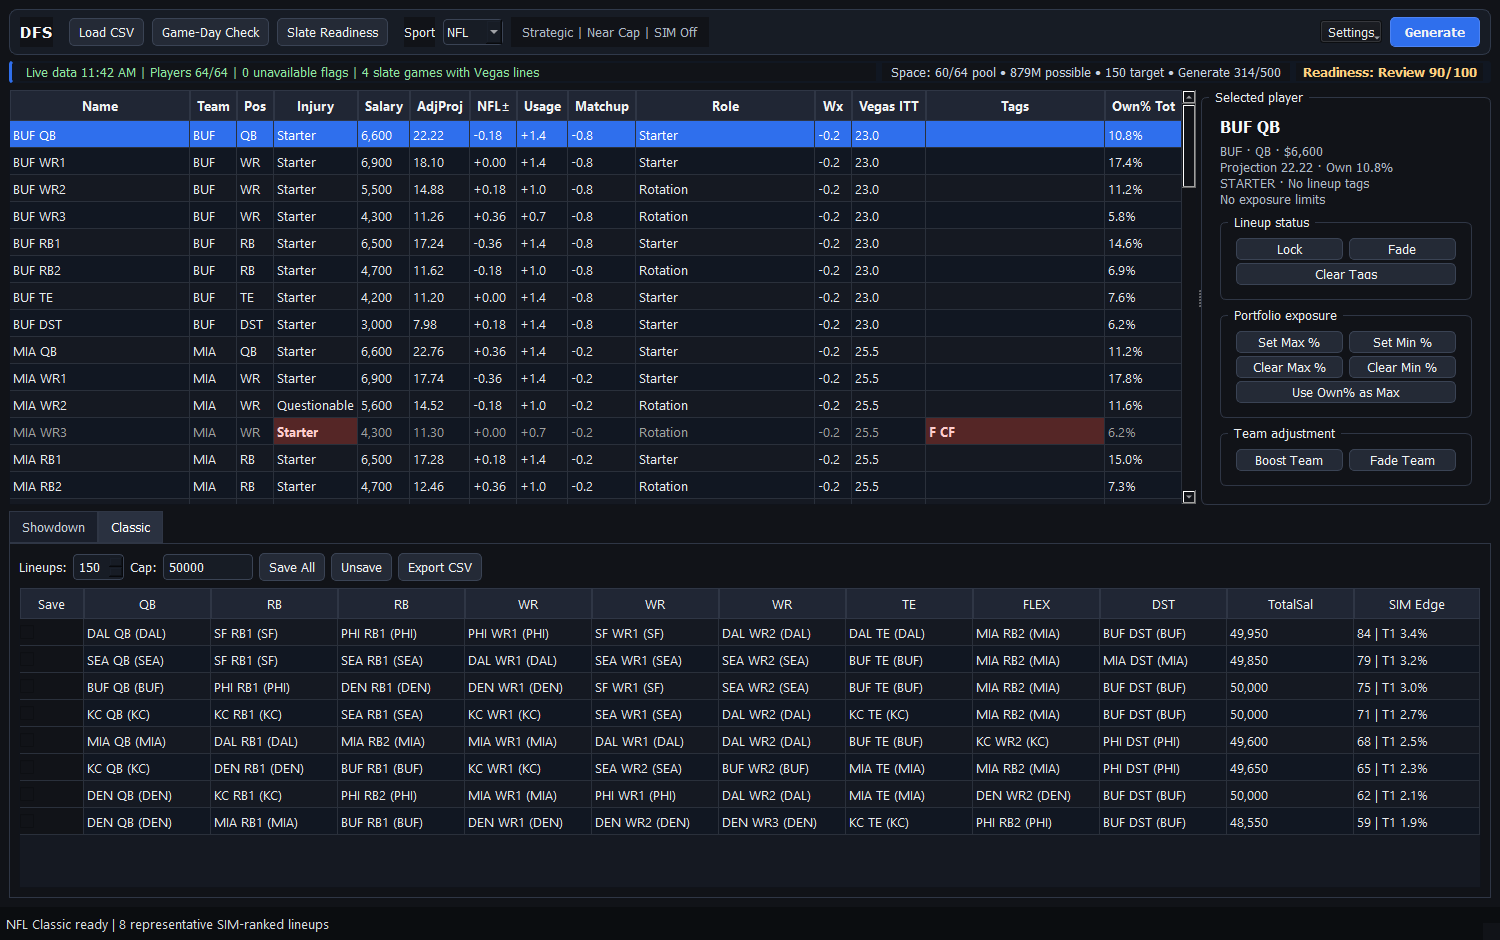
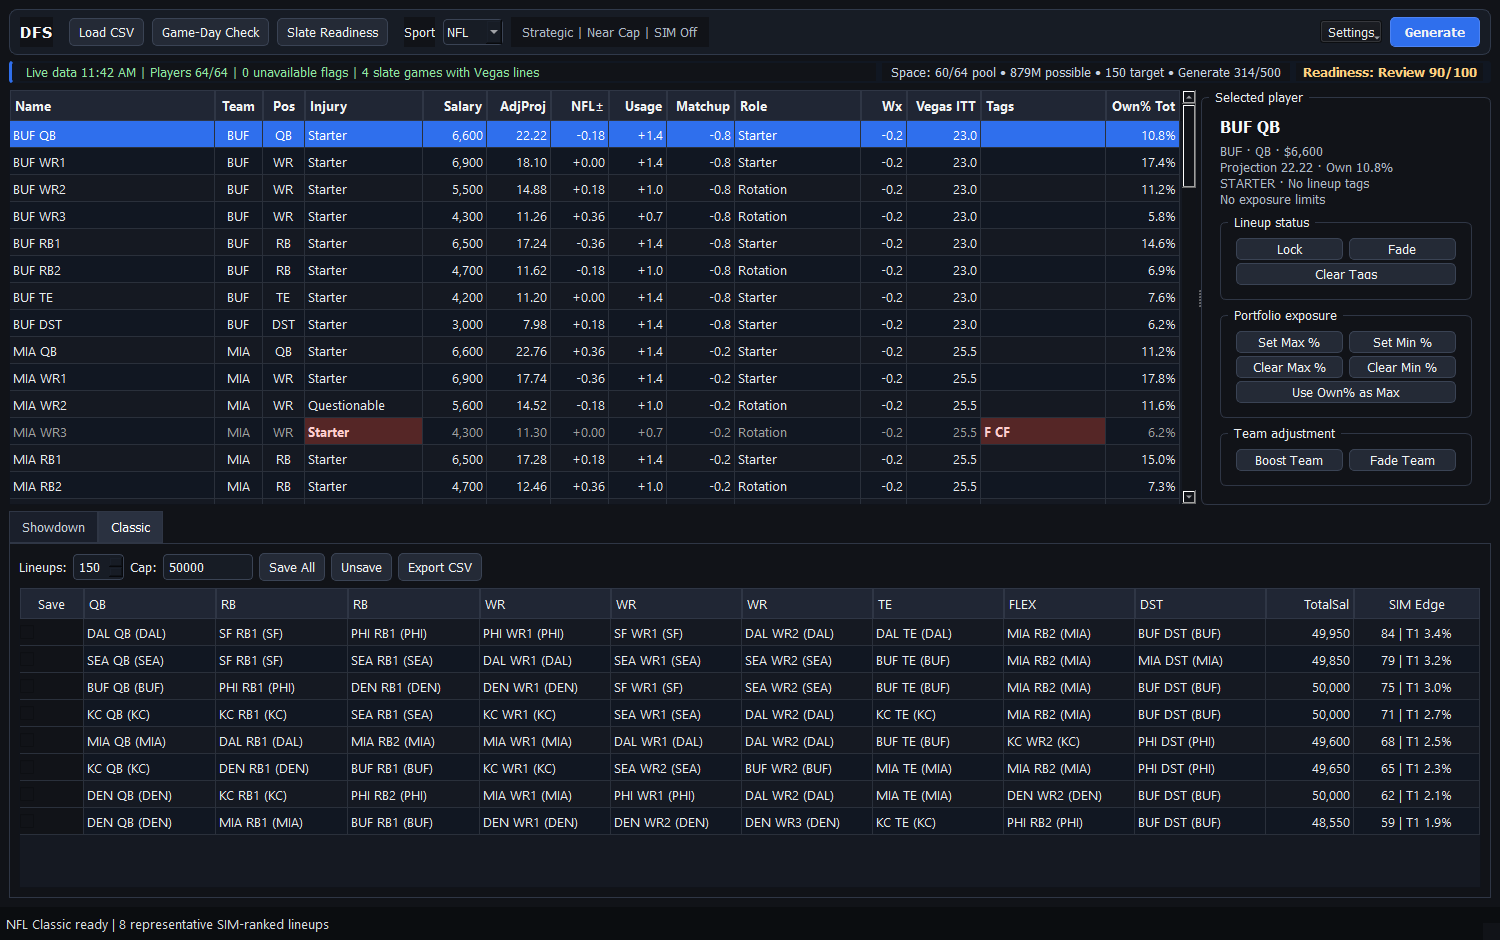
Align player and lineup columns (#22)
* Align player and lineup columns

* Update v1.14.1 documentation

diff --git a/main_window.py b/main_window.py
@@ -3129,10 +3129,9 @@ class MainWindow(QtWidgets.QMainWindow):
         self.tbl_players.setSelectionMode(QtWidgets.QAbstractItemView.ExtendedSelection)
         # Enable click-to-sort without changing the visual layout.
         self.tbl_players.setSortingEnabled(True)
-        # Allow user to drag column widths; we still auto-size on refresh to keep the same initial look.
+        # Allow user to drag column widths; responsive defaults are applied
+        # after sport-specific columns are shown.
         self.tbl_players.horizontalHeader().setSectionResizeMode(QtWidgets.QHeaderView.Interactive)
-        for column in (0, 10, 14):
-            self.tbl_players.horizontalHeader().setSectionResizeMode(column, QtWidgets.QHeaderView.Stretch)
         self.tbl_players.setAlternatingRowColors(True)
         self.tbl_players.verticalHeader().setDefaultSectionSize(27)
         self.tbl_players.verticalHeader().setVisible(False)
@@ -3499,14 +3498,87 @@ class MainWindow(QtWidgets.QMainWindow):
 
     @staticmethod
     def _fit_lineup_table_columns(table: QtWidgets.QTableWidget) -> None:
-        """Use the output width for roster slots instead of leaving a blank gutter."""
+        """Use the output width while keeping summary fields compact and aligned."""
         header = table.horizontalHeader()
         if table.columnCount() <= 0:
             return
         header.setSectionResizeMode(0, QtWidgets.QHeaderView.Fixed)
         header.resizeSection(0, 64)
+        save_header = table.horizontalHeaderItem(0)
+        if save_header is not None:
+            save_header.setTextAlignment(int(QtCore.Qt.AlignCenter))
         for column in range(1, table.columnCount()):
-            header.setSectionResizeMode(column, QtWidgets.QHeaderView.Stretch)
+            header_item = table.horizontalHeaderItem(column)
+            label = header_item.text() if header_item is not None else ""
+            if label == "TotalSal":
+                header.setSectionResizeMode(column, QtWidgets.QHeaderView.Fixed)
+                header.resizeSection(column, 88)
+                header_item.setTextAlignment(int(QtCore.Qt.AlignRight | QtCore.Qt.AlignVCenter))
+            elif label in {"Grade", "SIM Edge"}:
+                header.setSectionResizeMode(column, QtWidgets.QHeaderView.Fixed)
+                header.resizeSection(column, 126 if label == "SIM Edge" else 92)
+                header_item.setTextAlignment(int(QtCore.Qt.AlignCenter))
+            else:
+                header.setSectionResizeMode(column, QtWidgets.QHeaderView.Stretch)
+                if header_item is not None:
+                    header_item.setTextAlignment(int(QtCore.Qt.AlignLeft | QtCore.Qt.AlignVCenter))
+
+    @staticmethod
+    def _player_column_alignment(column: int) -> int:
+        """Match cell alignment to the kind of information in each column."""
+        if column in {0, 3, 10, 14}:
+            return int(QtCore.Qt.AlignLeft | QtCore.Qt.AlignVCenter)
+        if column in {1, 2, 20, 21, 22}:
+            return int(QtCore.Qt.AlignCenter)
+        return int(QtCore.Qt.AlignRight | QtCore.Qt.AlignVCenter)
+
+    def _fit_player_table_columns(self) -> None:
+        """Fit visible player fields predictably without oversized text columns."""
+        if not hasattr(self, "tbl_players"):
+            return
+        table = self.tbl_players
+        header = table.horizontalHeader()
+        header.setSectionResizeMode(QtWidgets.QHeaderView.Interactive)
+        header.setMinimumSectionSize(38)
+        header.setStretchLastSection(False)
+
+        preferred = {
+            0: 168, 1: 48, 2: 42, 3: 104, 4: 64, 5: 68, 6: 64,
+            7: 58, 8: 58, 9: 68, 10: 108, 11: 46, 12: 74,
+            13: 66, 14: 100, 15: 74, 16: 76, 17: 76, 18: 64,
+            19: 64, 20: 54, 21: 48, 22: 54,
+        }
+        visible = [
+            column for column in range(table.columnCount())
+            if not table.isColumnHidden(column)
+        ]
+        for column in visible:
+            header.resizeSection(column, preferred.get(column, 64))
+            header_item = table.horizontalHeaderItem(column)
+            if header_item is not None:
+                header_item.setTextAlignment(self._player_column_alignment(column))
+
+        # Share any spare width among descriptive fields. This keeps Role near
+        # its values while letting names, injuries, and tags breathe.
+        available = max(0, table.viewport().width() - 2)
+        used = sum(header.sectionSize(column) for column in visible)
+        spare = max(0, available - used)
+        elastic = [(0, 0.40), (3, 0.15), (10, 0.20), (14, 0.25)]
+        elastic = [(column, weight) for column, weight in elastic if column in visible]
+        weight_total = sum(weight for _, weight in elastic)
+        distributed = 0
+        for index, (column, weight) in enumerate(elastic):
+            if index == len(elastic) - 1:
+                addition = spare - distributed
+            else:
+                addition = int(spare * weight / max(weight_total, 1e-9))
+                distributed += addition
+            header.resizeSection(column, preferred[column] + max(0, addition))
+
+    def resizeEvent(self, event: QtGui.QResizeEvent) -> None:
+        super().resizeEvent(event)
+        if hasattr(self, "tbl_players"):
+            QtCore.QTimer.singleShot(0, self._fit_player_table_columns)
 
     def _set_saved_portfolio_visible(self, visible: bool) -> None:
         """Let the main player and lineup workspace use the full window."""
@@ -3618,6 +3690,7 @@ class MainWindow(QtWidgets.QMainWindow):
         visible = self._default_player_columns(sport)
         for column in range(self.tbl_players.columnCount()):
             self.tbl_players.setColumnHidden(column, column not in visible)
+        self._fit_player_table_columns()
 
     def _show_player_columns_menu(self, point: QtCore.QPoint) -> None:
         """Allow any compacted column to be restored on demand."""
@@ -5215,8 +5288,14 @@ class MainWindow(QtWidgets.QMainWindow):
             # Visual-only highlighting
             self._set_player_row_style(r, p)
 
-        # Keep the same initial look (auto-fit), but allow manual resizing after.
-        self.tbl_players.resizeColumnsToContents()
+            for column in range(self.tbl_players.columnCount()):
+                item = self.tbl_players.item(r, column)
+                if item is not None:
+                    item.setTextAlignment(self._player_column_alignment(column))
+
+        # Keep widths stable across data refreshes while still filling the
+        # current player-table viewport.
+        self._fit_player_table_columns()
 
         # Restore sorting state.
         if was_sorting:
@@ -5442,12 +5521,15 @@ class MainWindow(QtWidgets.QMainWindow):
             chk.stateChanged.connect(lambda state, row=i: self._sd_checkbox_changed(row, state))
             self.tbl_sd.setCellWidget(i, 0, chk)
 
-            self.tbl_sd.setItem(i, 1, QtWidgets.QTableWidgetItem(self._display_name(cpt)))
+            captain_item = QtWidgets.QTableWidgetItem(self._display_name(cpt))
+            captain_item.setTextAlignment(int(QtCore.Qt.AlignLeft | QtCore.Qt.AlignVCenter))
+            self.tbl_sd.setItem(i, 1, captain_item)
             for j in range(5):
-                self.tbl_sd.setItem(
-                    i, 2 + j,
-                    QtWidgets.QTableWidgetItem(self._display_name(flex[j]) if j < len(flex) else "")
+                flex_item = QtWidgets.QTableWidgetItem(
+                    self._display_name(flex[j]) if j < len(flex) else ""
                 )
+                flex_item.setTextAlignment(int(QtCore.Qt.AlignLeft | QtCore.Qt.AlignVCenter))
+                self.tbl_sd.setItem(i, 2 + j, flex_item)
             self._build_progress.setValue(i + 1)
             self._build_eta.setText(f"Rendering {i + 1:,}/{total:,}")
             QtWidgets.QApplication.processEvents()
@@ -5501,10 +5583,14 @@ class MainWindow(QtWidgets.QMainWindow):
 
             cells = self._classic_display_cells(lu, sport)
             for col, txt in enumerate(cells, start=1):
-                self.tbl_cl.setItem(i, col, QtWidgets.QTableWidgetItem(txt))
+                player_item = QtWidgets.QTableWidgetItem(txt)
+                player_item.setTextAlignment(int(QtCore.Qt.AlignLeft | QtCore.Qt.AlignVCenter))
+                self.tbl_cl.setItem(i, col, player_item)
 
             total_sal = int(sum(float(p.get("FlexSalary", 0.0) or 0.0) for p in lu))
-            self.tbl_cl.setItem(i, len(headers)-2, QtWidgets.QTableWidgetItem(f"{total_sal:,}"))
+            salary_item = QtWidgets.QTableWidgetItem(f"{total_sal:,}")
+            salary_item.setTextAlignment(int(QtCore.Qt.AlignRight | QtCore.Qt.AlignVCenter))
+            self.tbl_cl.setItem(i, len(headers)-2, salary_item)
 
             try:
                 grade_info = lineup_grade_for_sport(lu, sport, self._safe_float(self.edit_cl_cap.text(), 50000.0))
@@ -5516,6 +5602,7 @@ class MainWindow(QtWidgets.QMainWindow):
                 else:
                     grade_txt = f"{grade_info.get('grade', '')} ({float(grade_info.get('score', 0.0)):.0f})"
                 grade_item = QtWidgets.QTableWidgetItem(grade_txt)
+                grade_item.setTextAlignment(int(QtCore.Qt.AlignCenter))
                 detail = (
                     f"Salary Used: ${float(grade_info.get('salary_used', 0.0)):,.0f}\n"
                     f"Salary Left: ${float(grade_info.get('salary_left', 0.0)):,.0f}\n"
@@ -5555,7 +5642,9 @@ class MainWindow(QtWidgets.QMainWindow):
                 grade_item.setToolTip(detail)
                 self.tbl_cl.setItem(i, len(headers)-1, grade_item)
             except Exception:
-                self.tbl_cl.setItem(i, len(headers)-1, QtWidgets.QTableWidgetItem(""))
+                grade_item = QtWidgets.QTableWidgetItem("")
+                grade_item.setTextAlignment(int(QtCore.Qt.AlignCenter))
+                self.tbl_cl.setItem(i, len(headers)-1, grade_item)
 
             self._build_progress.setValue(i + 1)
             self._build_eta.setText(f"Rendering {i + 1:,}/{total:,}")

diff --git a/test_results_learning_ui.py b/test_results_learning_ui.py
@@ -7,7 +7,7 @@ from unittest import mock
 
 os.environ.setdefault("QT_QPA_PLATFORM", "offscreen")
 
-from PyQt5 import QtWidgets
+from PyQt5 import QtCore, QtWidgets
 
 from main_window import BuildDiagnosticsDialog, LineupBuildWorker, LiveDataSettingsDialog, MainWindow, PortfolioInsightsDialog, ResultsImportWorker, ResultsLearningDialog, _deep_shortlist
 from build_diagnostics import create_build_diagnostic, load_build_history, save_build_diagnostic
@@ -234,6 +234,54 @@ class ResultsLearningUITests(unittest.TestCase):
         self.assertTrue(window.tbl_players.isColumnHidden(20))
         if hasattr(window.tabs_lineups, "isTabVisible"):
             self.assertFalse(window.tabs_lineups.isTabVisible(2))
+        window.close()
+
+    def test_player_and_lineup_columns_use_content_appropriate_alignment(self):
+        window = MainWindow()
+        window.resize(1540, 700)
+        window.show()
+        self.app.processEvents()
+        window.players = [{
+            "Name": "Example Receiver", "Team": "BUF", "Position": "WR",
+            "FlexSalary": 6100, "BaseProjection": 15.0, "FlexProjection": 16.2,
+            "NFLAvailability": "STARTER", "NFLAdjScore": 0.4,
+            "NFLUsageScore": 0.3, "NFLMatchupScore": 0.2,
+            "NFLRole": "SWR1", "NFLRoleScore": 0.8,
+            "NFLWeatherScore": -0.1, "NFLVegasTeamTotal": 25.5,
+            "ProjOwnPct": 12.4,
+        }]
+        window._refresh_players_table()
+        self.app.processEvents()
+
+        horizontal_mask = int(QtCore.Qt.AlignHorizontal_Mask)
+        self.assertEqual(
+            window.tbl_players.horizontalHeaderItem(0).textAlignment() & horizontal_mask,
+            int(QtCore.Qt.AlignLeft),
+        )
+        self.assertEqual(
+            window.tbl_players.horizontalHeaderItem(4).textAlignment() & horizontal_mask,
+            int(QtCore.Qt.AlignRight),
+        )
+        self.assertEqual(
+            window.tbl_players.item(0, 1).textAlignment() & horizontal_mask,
+            int(QtCore.Qt.AlignHCenter),
+        )
+        self.assertEqual(
+            window.tbl_players.item(0, 4).textAlignment() & horizontal_mask,
+            int(QtCore.Qt.AlignRight),
+        )
+        player_header = window.tbl_players.horizontalHeader()
+        self.assertLess(player_header.sectionSize(10), player_header.sectionSize(0))
+
+        window.tabs_lineups.setCurrentIndex(1)
+        total_column = window.tbl_cl.columnCount() - 2
+        grade_column = window.tbl_cl.columnCount() - 1
+        self.assertEqual(window.tbl_cl.horizontalHeader().sectionSize(total_column), 88)
+        self.assertEqual(window.tbl_cl.horizontalHeader().sectionSize(grade_column), 92)
+        self.assertEqual(
+            window.tbl_cl.horizontalHeaderItem(total_column).textAlignment() & horizontal_mask,
+            int(QtCore.Qt.AlignRight),
+        )
         window.close()
 
     def test_selected_player_updates_contextual_inspector(self):

diff --git a/scripts/build_user_guide_pdf.py b/scripts/build_user_guide_pdf.py
@@ -286,7 +286,7 @@ def main() -> None:
     parser = argparse.ArgumentParser(description=__doc__)
     parser.add_argument("--source", default="docs/USER_GUIDE.md")
     parser.add_argument("--output", default="dist/DFS-Optimizer-User-Guide.pdf")
-    parser.add_argument("--version", default="1.14.0")
+    parser.add_argument("--version", default="1.14.1")
     args = parser.parse_args()
     build_pdf(Path(args.source), Path(args.output), args.version)
     print(Path(args.output).resolve())

diff --git a/docs/USER_GUIDE.md b/docs/USER_GUIDE.md
@@ -1,6 +1,6 @@
 # DFS Optimizer User Guide
 
-Version 1.14.0 | Windows desktop app
+Version 1.14.1 | Windows desktop app
 
 DFS Optimizer builds DraftKings lineups for NFL, MLB, NBA, NHL, and WNBA. It combines projections, contest construction, exposure rules, live NFL context, simulation, and local result tracking in one desktop workflow.
 
@@ -54,6 +54,8 @@ Choose **Load Player CSV** and select a DraftKings salary file. The player table
 - Exposure columns hold maximum and minimum portfolio limits.
 
 Sort and inspect the table before generating. A strong optimizer cannot repair a poor or stale player pool.
+
+Player columns use content-aware alignment: descriptive fields stay left-aligned, team and position fields are centered, and numeric values align on the right. The table redistributes spare width among names, injury notes, roles, and tags when the window changes size.
 
 ## 5. NFL Game-Day Check and Vegas
 
@@ -177,6 +179,8 @@ The **Player exposure** tab lists every player's count, percentage, and lineup n
 - open **Portfolio Insights** before export and repair only the rows you do not want; and
 - correct warnings rather than assuming they are harmless.
 
+Generated-lineup columns keep salary and grade/SIM summaries compact so the roster slots receive most of the available width.
+
 Large candidate pools, NFL simulation, and restrictive portfolio rules take more time than a simple projection build.
 
 ![Deep Build control in the NFL Classic Build Strategy tab](images/deep-build.png)
@@ -276,7 +280,7 @@ Exact matching matters. An entry can remain unmatched if it was edited after exp
 
 See the separate Troubleshooting guide for more detail.
 
-## **13.** Local data and privacy
+## Section 13 - Local data and privacy
 
 The optimizer stores exports, imported results, slate snapshots, build diagnostics, and settings on the computer. Choose **Open Local History Folder** in Results & Learning to inspect the history location.
 

diff --git a/docs/releases/v1.14.1.md b/docs/releases/v1.14.1.md
@@ -1,0 +1,22 @@
+# DFS Optimizer v1.14.1
+
+## Cleaner table alignment
+
+- Player-table headers now align with the values beneath them.
+- Descriptive fields are left-aligned, compact identifiers are centered, and numeric values align on the right.
+- Name, injury, role, and tag widths adjust predictably with the available window space.
+- The Role column no longer absorbs an oversized share of the player table.
+
+## Better lineup output spacing
+
+- Roster slots receive most of the available result-table width.
+- Total Salary and Grade or SIM Edge stay compact and consistently aligned.
+- Classic and Showdown player names align uniformly beneath their slot headers.
+
+## Validation and documentation
+
+- All 102 automated tests pass.
+- The user guide is updated to v1.14.1.
+- Documentation screenshots were regenerated from the corrected interface.
+
+As always, use a fresh DraftKings salary file and complete a final news and availability review before lock.
